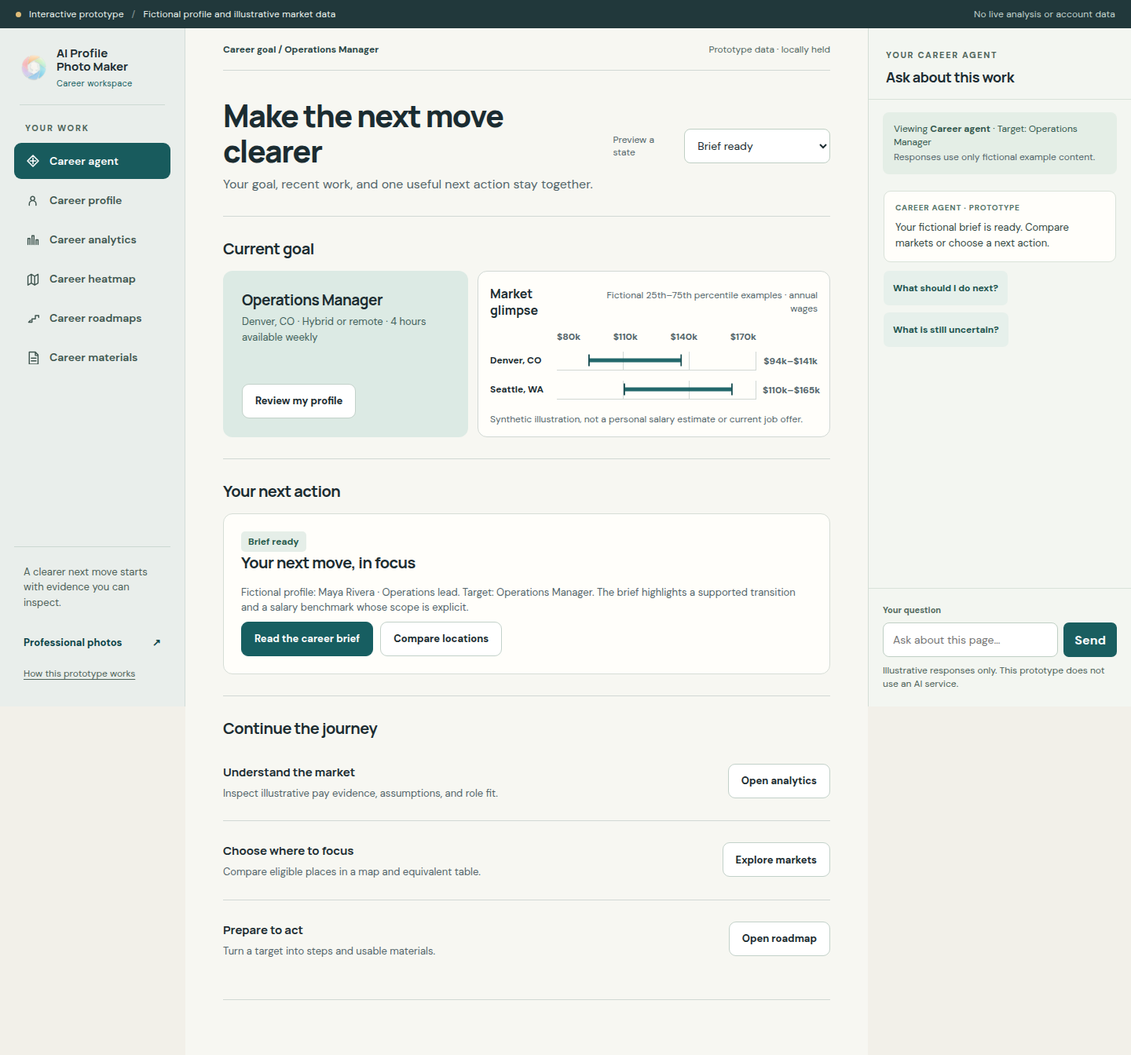
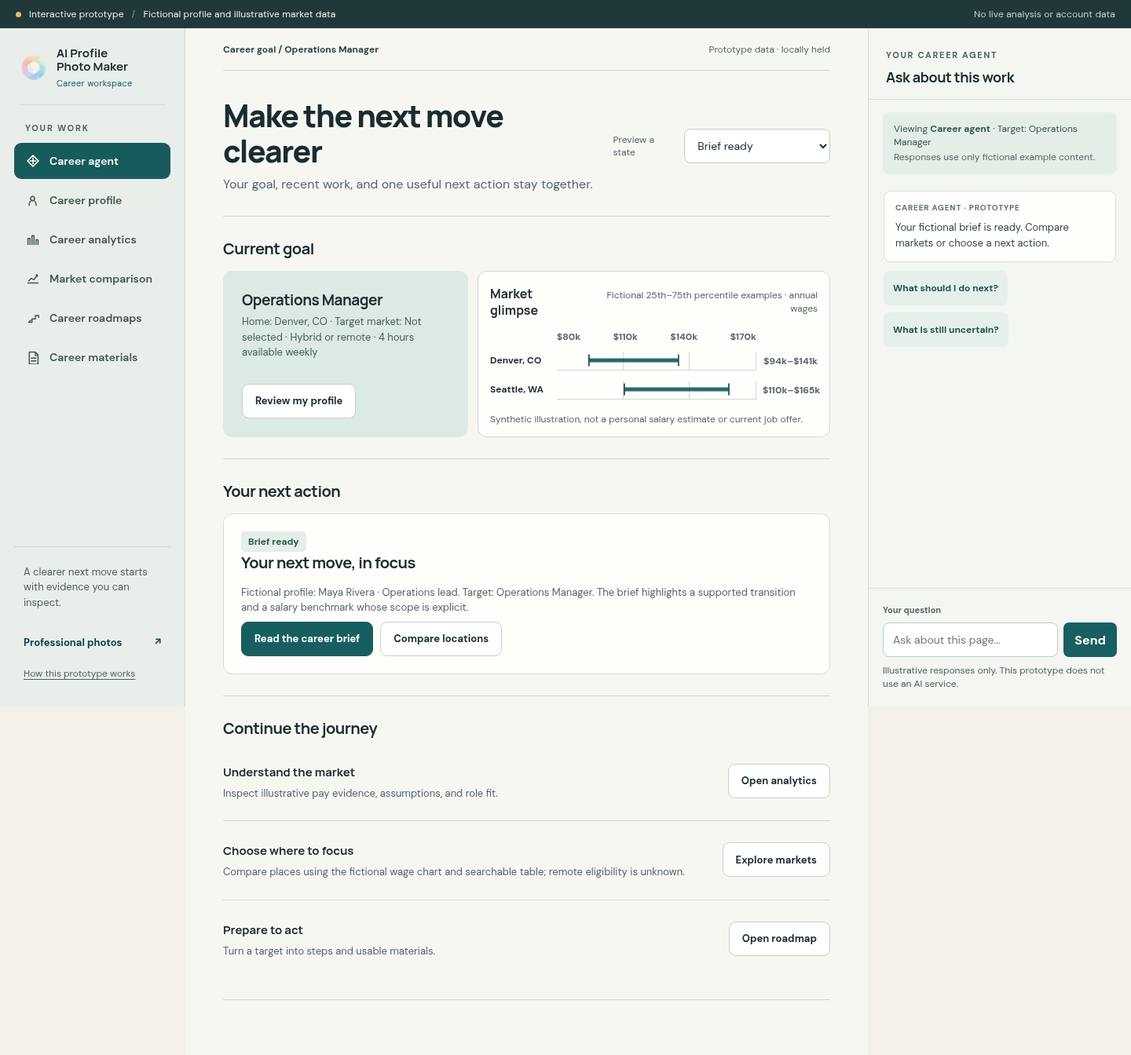
Fix prototype market comparison and target saving

diff --git a/prototypes/career-agent/app.js b/prototypes/career-agent/app.js
@@ -3,20 +3,21 @@ const pages = [
   ['agent','Career agent','M3 10.5 10.5 3 18 10.5 10.5 18 3 10.5Z M10.5 6.5v8 M6.5 10.5h8'],
   ['profile','Career profile','M5 18v-2a5 5 0 0 1 10 0v2 M10 11a3 3 0 1 0 0-6 3 3 0 0 0 0 6Z'],
   ['analytics','Career analytics','M3 18V9h3v9 M9 18V5h3v13 M15 18v-7h3v7'],
-  ['heatmap','Career heatmap','M3 7l5-3 5 3 5-3v13l-5 3-5-3-5 3V7Z M8 4v13 M13 7v13'],
+  ['heatmap','Market comparison','M3 17h15 M4 14l4-4 4 2 5-7 M15 5h2v2'],
   ['roadmaps','Career roadmaps','M4 17h5v-5h5V7h5 M16 7h3v3 M4 17l3-3'],
   ['materials','Career materials','M5 3h9l4 4v14H5z M14 3v5h4 M8 12h7 M8 16h7']
 ];
 const seeded = {
-  page:'agent', name:'Maya Rivera', title:'Operations lead', city:'Denver, CO',
+  page:'agent', name:'Maya Rivera', title:'Operations lead', city:'Denver, CO', targetMarket:'', marketToSave:'Denver, CO',
   role:'Operations Manager', arrangement:'Hybrid or remote', weeklyHours:'4 hours', canRelocate:false,
   confirmed:true, profileEdit:false, runState:'complete', selectedMarkets:['Denver, CO'],
   selectedRoute:'closest', completedTasks:[], materialTab:'resume', editedResume:false,
   resume:'Maya Rivera\nOperations Lead\n\nSUMMARY\nOperations leader with 9 years of experience improving cross-team workflows, service delivery, and reporting.\n\nEXPERIENCE\nLed process redesign across three departments. Reduced handoff time by documenting responsibilities and introducing shared reporting.\n\nSKILLS\nProcess improvement · Stakeholder coordination · Reporting',
   summary:'Operations leader focused on making complex work easier to run. Experienced in process improvement, team coordination, and clear reporting.',
-  showMap:false, marketQuery:'', messageHistory:[], assistantOpen:false
+  marketQuery:'', messageHistory:[], assistantOpen:false
 };
-const storeKey='career-prototype-v1';
+// v1 saved the chosen destination over the home city. Reset that ambiguous fictional state.
+const storeKey='career-prototype-v2';
 const routeScroll=Object.create(null);
 if('scrollRestoration' in history)history.scrollRestoration='manual';
 let state;
@@ -31,11 +32,11 @@ const head=(title,desc,tools='')=>`<header class="page-head"><div><h1>${title}</
 const section=(title,body,lead='')=>`<section class="section"><h2>${title}</h2>${lead?'<p class="section-lead">'+lead+'</p>':''}${body}</section>`;
 const statusText={empty:'No profile yet',working:'Research in progress',input:'Your answer is needed',partial:'Partial result saved',complete:'Brief ready',stale:'Needs refresh',error:'Source unavailable',quota:'Free limit reached'};
 const marketRows=[
-  {city:'Denver, CO',pay:'$94k–$141k',low:94,high:141,signal:'Illustrative wage benchmark',fit:'Current market',value:'mid'},
-  {city:'Seattle, WA',pay:'$110k–$165k',low:110,high:165,signal:'Illustrative wage benchmark',fit:'Relocation required',value:'high'},
-  {city:'Minneapolis, MN',pay:'$89k–$134k',low:89,high:134,signal:'Illustrative wage benchmark',fit:'Relocation required',value:'mid'},
-  {city:'Atlanta, GA',pay:'$82k–$123k',low:82,high:123,signal:'Illustrative wage benchmark',fit:'Relocation required',value:'low'},
-  {city:'Boise, ID',pay:'Unavailable',signal:'Suppressed in this example',fit:'Evidence unavailable',value:'unknown'}
+  {city:'Denver, CO',pay:'$94k–$141k',low:94,high:141},
+  {city:'Seattle, WA',pay:'$110k–$165k',low:110,high:165},
+  {city:'Minneapolis, MN',pay:'$89k–$134k',low:89,high:134},
+  {city:'Atlanta, GA',pay:'$82k–$123k',low:82,high:123},
+  {city:'Boise, ID',pay:'Unavailable'}
 ];
 function intervalPlot(rows,compact=false,showSelection=false){
   const interval=(m)=>m.low==null?'<span class="interval-unavailable">No example value</span>':`<span class="interval-band" style="--interval-start:${((m.low-80)/90*100).toFixed(1)}%;--interval-end:${((m.high-80)/90*100).toFixed(1)}%"></span>`;
@@ -68,7 +69,7 @@ function renderAssistant(){
     agent:'Your fictional brief is ready. Compare markets or choose a next action.',
     profile:'Your confirmed experience anchors the analysis. A proposed change needs your review.',
     analytics:'The occupational wage benchmark and comparable pay answer different questions. Check the definitions before comparing.',
-    heatmap:'The table contains the same illustrative locations as the map. Unknown data is separate from low values.',
+    heatmap:'Use Compare in the table to select places, then save a separate target market. The wage chart is fictional and remote eligibility is unknown.',
     roadmaps:'You can choose a path and change the weekly effort. Timelines are planning scenarios.',
     materials:'This resume draft uses confirmed example facts. Review every sentence before export.'
   };
@@ -80,17 +81,17 @@ function renderAgent(){
   let main='';
   if(run==='empty')main=`<div class="paper"><h2>Start with your background</h2><p>You can enter professional facts manually. A future release will accept a resume for review.</p><div class="button-row">${link('profile','Tell me about my background','primary')}${action('demo-confirm','Use the fictional example')}</div></div>`;
   else if(run==='working')main=`<div class="paper"><span class="status warn">Working · step 2 of 3</span><h2>Comparing your role with market evidence</h2><div class="step-track" aria-hidden="true"><span class="done"></span><span class="active"></span><span></span></div><p>The next step is a saved brief. This is a simulated progress state.</p>${action('cancel-run','Cancel example run')}</div>`;
-  else if(run==='input')main=`<div class="paper"><span class="status warn">Needs your answer</span><h2>Can you relocate for the right role?</h2><p>We will keep the analysis to eligible markets. Your answer is a simulated preference.</p><div class="button-row">${action('answer-no','No relocation','primary')}${action('answer-yes','Yes, I can relocate')}</div></div>`;
+  else if(run==='input')main=`<div class="paper"><span class="status warn">Needs your answer</span><h2>Can you relocate for the right role?</h2><p>Your answer changes the on-site relocation labels in the market comparison. It does not establish remote eligibility or run live research.</p><div class="button-row">${action('answer-no','No relocation','primary')}${action('answer-yes','Yes, I can relocate')}</div></div>`;
   else if(run==='quota')main=`<div class="paper"><span class="status warn">Free research limit reached</span><h2>Your saved work is still here</h2><p>A real release would show the measured allowance and exact reset time. You can review the fictional brief and export the sample materials now.</p>${link('materials','Open saved materials','primary')}</div>`;
   else if(run==='error')main=`<div class="paper"><span class="status error">Market source unavailable</span><h2>We could not refresh this evidence</h2><p>The saved example remains available. Try again when the source returns.</p><div class="button-row">${action('retry-run','Retry example task','primary')}${link('analytics','Read saved analysis')}</div></div>`;
-  else main=`<div class="paper"><span class="status ${run==='partial'||run==='stale'?'warn':''}">${statusText[run]}</span><h2>${run==='stale'?'Your profile changed since this brief':run==='partial'?'One source is missing; your brief is saved':'Your next move, in focus'}</h2><p>Fictional profile: ${clean(state.name)} · ${clean(state.title)}. Target: ${clean(state.role)}. The brief highlights a supported transition and a salary benchmark whose scope is explicit.</p><div class="button-row">${link('analytics','Read the career brief','primary')}${link('heatmap','Compare locations')}${run==='stale'?action('retry-run','Refresh example brief'):''}</div></div>`;
-  const goal=`<div class="goal-overview"><div class="scenario-banner"><div><h2>${clean(state.role)}</h2><p>${clean(state.city)} · ${clean(state.arrangement)} · ${clean(state.weeklyHours)} available weekly</p></div>${link('profile','Review my profile')}</div>${intervalPlot(marketRows.slice(0,2),true)}</div>`;
-  return head('Make the next move clearer','Your goal, recent work, and one useful next action stay together.',stateChoice)+section('Current goal',goal)+section('Your next action',main)+section('Continue the journey',`<div class="choice-list"><div class="artifact-row"><div><h3>Understand the market</h3><p>Inspect illustrative pay evidence, assumptions, and role fit.</p></div>${link('analytics','Open analytics')}</div><div class="artifact-row"><div><h3>Choose where to focus</h3><p>Compare eligible places in a map and equivalent table.</p></div>${link('heatmap','Explore markets')}</div><div class="artifact-row"><div><h3>Prepare to act</h3><p>Turn a target into steps and usable materials.</p></div>${link('roadmaps','Open roadmap')}</div></div>`);
+  else main=`<div class="paper"><span class="status ${run==='partial'||run==='stale'?'warn':''}">${statusText[run]}</span><h2>${run==='stale'?'Your goal changed since this brief':run==='partial'?'One source is missing; your brief is saved':'Your next move, in focus'}</h2><p>Fictional profile: ${clean(state.name)} · ${clean(state.title)}. Target: ${clean(state.role)}. The brief highlights a supported transition and a salary benchmark whose scope is explicit.</p><div class="button-row">${link('analytics','Read the career brief','primary')}${link('heatmap','Compare locations')}${run==='stale'?action('retry-run','Refresh example brief'):''}</div></div>`;
+  const goal=`<div class="goal-overview"><div class="scenario-banner"><div><h2>${clean(state.role)}</h2><p>Home: ${clean(state.city)} · Target market: ${clean(state.targetMarket||'Not selected')} · ${clean(state.arrangement)} · ${clean(state.weeklyHours)} available weekly</p></div>${link('profile','Review my profile')}</div>${intervalPlot(marketRows.slice(0,2),true)}</div>`;
+  return head('Make the next move clearer','Your goal, recent work, and one useful next action stay together.',stateChoice)+section('Current goal',goal)+section('Your next action',main)+section('Continue the journey',`<div class="choice-list"><div class="artifact-row"><div><h3>Understand the market</h3><p>Inspect illustrative pay evidence, assumptions, and role fit.</p></div>${link('analytics','Open analytics')}</div><div class="artifact-row"><div><h3>Choose where to focus</h3><p>Compare places using the fictional wage chart and searchable table; remote eligibility is unknown.</p></div>${link('heatmap','Explore markets')}</div><div class="artifact-row"><div><h3>Prepare to act</h3><p>Turn a target into steps and usable materials.</p></div>${link('roadmaps','Open roadmap')}</div></div>`);
 }
 function renderProfile(){
   const edit=state.profileEdit?`<div class="review-change"><span class="label">Proposed profile update</span><h3>Review before accepting</h3><dl><dt>Current</dt><dd>${clean(state.title)}</dd><dt>Proposed</dt><dd class="new">Senior Operations Lead</dd><dt>Source</dt><dd>Fictional resume excerpt · needs confirmation</dd></dl><div class="button-row">${action('accept-profile','Accept change','primary')}${action('dismiss-profile','Dismiss')}</div></div>`:`<div class="note">This fictional profile is confirmed. Try “Review a proposed edit” to see how uncertain resume facts would be handled.</div>`;
   return head('A profile you can trust','Professional facts are inspectable and correctable before they shape advice.',action('propose-profile','Review a proposed edit','primary'))+
-  section('Professional snapshot',`<div class="grid-2"><div class="paper"><span class="label">Confirmed background</span><h3 style="margin-top:12px">${clean(state.name)}</h3><p>${clean(state.title)} · 9 years in operations</p><p>Process improvement, coordination, and reporting.</p><span class="status">Added by you · confirmed</span></div><div class="paper"><span class="label">Current direction</span><h3 style="margin-top:12px">${clean(state.role)}</h3><p>Based in ${clean(state.city)}. Prefers ${clean(state.arrangement)} roles. ${clean(state.weeklyHours)} each week for the transition.</p><span class="status muted">Preferences · editable</span></div></div>`)+
+  section('Professional snapshot',`<div class="grid-2"><div class="paper"><span class="label">Confirmed background</span><h3 style="margin-top:12px">${clean(state.name)}</h3><p>${clean(state.title)} · 9 years in operations</p><p>Process improvement, coordination, and reporting.</p><span class="status">Added by you · confirmed</span></div><div class="paper"><span class="label">Current direction</span><h3 style="margin-top:12px">${clean(state.role)}</h3><p>Home market: ${clean(state.city)}. Target market: ${clean(state.targetMarket||'Not selected')}. Prefers ${clean(state.arrangement)} roles. ${clean(state.weeklyHours)} each week for the transition.</p><span class="status muted">Preferences · editable</span></div></div>`)+
   section('Evidence and corrections',edit)+
   section('Your goal',`<form id="goal-form"><div class="form-grid"><div><label class="field" for="goal-role">Target role</label><input id="goal-role" type="text" value="${clean(state.role)}" required maxlength="80"></div><div><label class="field" for="goal-city">Home market</label><input id="goal-city" type="text" value="${clean(state.city)}" required maxlength="80"></div><div><label class="field" for="goal-arrangement">Work arrangement</label><select id="goal-arrangement"><option ${state.arrangement==='Hybrid or remote'?'selected':''}>Hybrid or remote</option><option ${state.arrangement==='On-site'?'selected':''}>On-site</option><option ${state.arrangement==='Remote only'?'selected':''}>Remote only</option></select></div><div><label class="field" for="goal-hours">Time available each week</label><select id="goal-hours"><option ${state.weeklyHours==='4 hours'?'selected':''}>4 hours</option><option ${state.weeklyHours==='2 hours'?'selected':''}>2 hours</option><option ${state.weeklyHours==='8 hours'?'selected':''}>8 hours</option></select></div></div><div class="section-actions"><button class="button primary" type="submit">Save goal</button></div></form>`)+
   section('Resume intake',`<div class="paper"><h3>Bring your own experience</h3><p>The first product release will offer private document upload and a line-by-line confirmation step. This prototype demonstrates the review pattern using fictional facts. No file is sent or stored by this page.</p><span class="status muted">Prototype · upload inactive</span></div>`);
@@ -105,12 +106,17 @@ function renderAnalytics(){
  section('Next decision',`<div class="button-row">${link('heatmap','Compare markets','primary')}${link('roadmaps','Plan toward this role')}</div>`);
 }
 function renderHeatmap(){
- const options=marketRows.map(m=>`<tr><td data-label="Market"><strong>${m.city}</strong></td><td data-label="Example annual range">${m.pay}</td><td data-label="Constraint">${m.fit==='Relocation required'&&state.canRelocate?'Relocation possible':m.fit}</td><td data-label="Action"><button class="button ${state.selectedMarkets.includes(m.city)?'selected':''}" type="button" data-action="compare-market" data-market="${m.city}" aria-pressed="${state.selectedMarkets.includes(m.city)}">${state.selectedMarkets.includes(m.city)?'Selected':'Compare'}</button></td></tr>`).join('');
- const selected=state.selectedMarkets.join(' · ');
- return head('Find a market that fits your life','Compare places using the same measure, with location and remote restrictions visible.')+
- section('Explore locations',`<div class="note warn">All values and regions shown here are illustrative. The simplified map is a navigation sketch; the table contains the full comparison.</div><div class="map-controls"><div><label class="field" for="market-search">Search location</label><input id="market-search" type="search" placeholder="Try Seattle" value="${clean(state.marketQuery)}" autocomplete="off"></div><div><label class="field" for="market-metric">Measure</label><select id="market-metric"><option>Annual wage benchmark</option><option disabled>Observed postings · data needed</option><option disabled>Employment concentration · data needed</option></select></div><div><label class="field" for="market-work">Work arrangement</label><select id="market-work"><option>All arrangements</option><option>Hybrid or remote · eligibility unknown</option></select></div></div><button class="button mobile-map-toggle" type="button" data-action="toggle-map">${state.showMap?'Show list first':'Show map'}</button><div class="map-panel ${state.showMap?'':'collapsed'}" role="img" aria-label="Illustrative map sketch. Use the following table for all values."><svg viewBox="0 0 650 270" aria-hidden="true"><path data-value="high" d="M38 54l62 4 10 55-40 22-29-31z"/><path data-value="mid" d="M115 90l93-20 24 62-36 50-88-13z"/><path data-value="mid" d="M245 80l95-8 14 71-59 27-50-32z"/><path data-value="unknown" d="M355 50l80 22-8 100-70 7z"/><path data-value="low" d="M446 105l82 12 23 53-80 31-41-27z"/><path data-value="high" d="M538 49l79 11-9 113-52 14-23-62z"/><text x="47" y="89">WA</text><text x="146" y="121">CO</text><text x="271" y="118">MN</text><text x="371" y="111">ID</text><text x="478" y="150">GA</text><text x="560" y="106">NY</text></svg></div><div class="map-legend"><span><i class="legend-chip" style="background:#277b70"></i> Higher example</span><span><i class="legend-chip" style="background:#57998a"></i> Middle example</span><span><i class="legend-chip" style="background:#bdd0ba"></i> Lower example</span><span><i class="legend-chip" style="background:#c4cac3"></i> Unavailable</span></div>`)+
- section('Compare locations',`<p class="small">Selected: ${clean(selected)}. Choose up to three. Table values are fictional annual wage examples, not current job offers.</p>${intervalPlot(marketRows,false,true)}<div class="table-wrap"><table><thead><tr><th scope="col">Market</th><th scope="col">Example annual range</th><th scope="col">Constraint</th><th scope="col">Action</th></tr></thead><tbody id="market-table">${options}</tbody></table></div><div class="section-actions"><label class="field" for="target-market">Location to save in your goal</label><select id="target-market">${state.selectedMarkets.map(m=>`<option>${clean(m)}</option>`).join('')}</select><div class="button-row" style="margin-top:10px">${action('save-market','Save target market','primary')}</div></div>`)+
- section('Remote eligibility',`<div class="note">“Remote” on a listing does not mean eligible from every U.S. location. This prototype has no live listings, so remote eligibility remains unknown.</div>`);
+ const options=marketRows.map(m=>{
+  const constraint=m.city===state.city?'Home market':state.canRelocate?'Relocation possible for on-site work':'Relocation required for on-site work';
+  const selected=state.selectedMarkets.includes(m.city);
+  return `<tr><td data-label="Market"><strong>${clean(m.city)}</strong></td><td data-label="Example annual range">${clean(m.pay)}</td><td data-label="Constraint">${constraint}</td><td data-label="Action"><button class="button ${selected?'selected':''}" type="button" data-action="compare-market" data-market="${clean(m.city)}" aria-pressed="${selected}">${selected?'Selected':'Compare'}</button></td></tr>`;
+ }).join('');
+ const selected=state.selectedMarkets.length?state.selectedMarkets.join(' · '):'None yet';
+ const choices=state.selectedMarkets.map(m=>`<option ${m===state.marketToSave?'selected':''}>${clean(m)}</option>`).join('');
+ return head('Find a market that fits your life','Compare fictional annual wage examples; remote-job eligibility cannot be checked here.')+
+ section('Explore locations',`<div class="note warn">These are fictional annual wage examples, not job offers or live market data. Search filters the table and chart below. Remote eligibility cannot be filtered without actual listings.</div><label class="field" for="market-search">Search location</label><input id="market-search" type="search" placeholder="Try Seattle" value="${clean(state.marketQuery)}" autocomplete="off">`)+
+ section('Compare locations',`<div class="note" id="market-goal-summary"><strong>Home market: ${clean(state.city)} · Saved target market: ${clean(state.targetMarket||'Not selected')}</strong><p class="small">The target is a separate place to explore, not a change of where the fictional person lives. Saved in this browser session only. Changing it marks the earlier brief outdated; it does not run new analysis.</p></div><p class="small">Use Compare in the table to select up to three places. Selected: ${clean(selected)}. Values are fictional annual wage examples, not current job offers.</p><div class="table-wrap"><table><thead><tr><th scope="col">Market</th><th scope="col">Example annual range</th><th scope="col">Constraint</th><th scope="col">Action</th></tr></thead><tbody id="market-table">${options}</tbody></table></div><div class="section-actions"><p class="small">Choose one of your compared locations as a target; your home market will stay ${clean(state.city)}.</p><label class="field" for="target-market">Location to save as target</label><select id="target-market" ${state.selectedMarkets.length?'':'disabled'}>${choices}</select><div class="button-row" style="margin-top:10px"><button type="button" class="button primary" data-action="save-market" ${state.selectedMarkets.length?'':'disabled'}>Save target market</button></div></div>${intervalPlot(marketRows,false,true)}`)+
+ section('Remote eligibility',`<div class="note">“Remote” on a listing does not mean eligible from every U.S. location. This prototype has no live listings or state restrictions, so remote eligibility remains unknown. A relocation label refers only to on-site work relative to the home market.</div>`);
 }
 function applyMarketSearch(){
   const query=state.marketQuery.trim().toLowerCase();
@@ -167,12 +173,23 @@ document.addEventListener('click',event=>{
   if(a==='demo-confirm'){state.runState='complete';render();}
   if(a==='retry-run'){state.runState='working';render();notify('Example task started. Select “Brief ready” to preview completion.');}
   if(a==='cancel-run'){state.runState='partial';render();notify('Example task cancelled; saved work remains available.');}
-  if(a==='answer-no'||a==='answer-yes'){state.canRelocate=a==='answer-yes';state.runState='complete';render();notify('Example answer recorded; brief ready.');}
+  if(a==='answer-no'||a==='answer-yes'){state.canRelocate=a==='answer-yes';state.runState='complete';render();notify('Relocation preference recorded. No listing eligibility was checked.');}
   if(a==='choose-role'){state.role='Program Manager';state.runState='stale';render();notify('Target changed; earlier analysis needs a refresh.');}
   if(a==='explain-range'){openAssistant();sendPrompt('Explain this pay range');}
-  if(a==='compare-market'){const m=trigger.dataset.market;const ix=state.selectedMarkets.indexOf(m);if(ix>=0)state.selectedMarkets.splice(ix,1);else if(state.selectedMarkets.length<3)state.selectedMarkets.push(m);else return notify('You can compare up to three places. Remove one first.');render();notify('Comparison updated.');}
-  if(a==='save-market'){state.city=$('#target-market')?.value||state.city;state.runState='stale';render();notify('Goal location updated; earlier brief marked outdated.');}
-  if(a==='toggle-map'){state.showMap=!state.showMap;render();}
+  if(a==='compare-market'){
+    const m=trigger.dataset.market;const ix=state.selectedMarkets.indexOf(m);
+    if(ix>=0){state.selectedMarkets.splice(ix,1);if(state.marketToSave===m)state.marketToSave=state.selectedMarkets.at(-1)||'';}
+    else if(state.selectedMarkets.length<3){state.selectedMarkets.push(m);state.marketToSave=m;}
+    else return notify('You can compare up to three places. Remove one first.');
+    render();notify('Comparison updated.');
+  }
+  if(a==='save-market'){
+    const target=$('#target-market')?.value;
+    if(!target||!state.selectedMarkets.includes(target))return notify('Choose a location to compare before saving a target.');
+    if(target===state.targetMarket)return notify(`Target market already saved: ${target}. Home market remains ${state.city}.`);
+    state.targetMarket=target;state.marketToSave=target;state.runState='stale';render();
+    notify(`Saved target: ${target}. Home remains ${state.city}. Earlier brief needs refresh; no new analysis ran.`);
+  }
   if(a==='select-route'){state.selectedRoute=trigger.dataset.route;render();notify('Roadmap route selected.');}
   if(a==='adjust-effort'){state.weeklyHours=state.weeklyHours==='4 hours'?'2 hours':state.weeklyHours==='2 hours'?'8 hours':'4 hours';render();notify('Weekly effort assumption updated.');}
   if(a==='material-tab'){state.materialTab=trigger.dataset.tab;render();const next=document.querySelector(`[data-tab="${state.materialTab}"]`);next?.focus();}
@@ -185,6 +202,7 @@ document.addEventListener('click',event=>{
 });
 document.addEventListener('change',event=>{
  if(event.target.id==='demo-state'){state.runState=event.target.value;render();}
+ if(event.target.id==='target-market'){state.marketToSave=event.target.value;save();}
  if(event.target.matches('[data-task]')){const id=event.target.dataset.task;if(event.target.checked&&!state.completedTasks.includes(id))state.completedTasks.push(id);if(!event.target.checked)state.completedTasks=state.completedTasks.filter(x=>x!==id);event.target.closest('.task-row')?.classList.toggle('complete',event.target.checked);const progress=$('.plan-progress');if(progress)progress.textContent=`${state.completedTasks.length} of 4 steps completed in this example`;save();notify('Roadmap progress updated.');}
 });
 document.addEventListener('submit',event=>{

diff --git a/prototypes/career-agent/visuals.css b/prototypes/career-agent/visuals.css
@@ -73,6 +73,7 @@
   font-variant-numeric: tabular-nums;
 }
 
+.section-actions + .interval-chart { margin-top: 24px; }
 .goal-overview .interval-chart { margin: 0; }
 .interval-chart.compact { --chart-place: 85px; --chart-value: 78px; padding: 18px 15px 13px; }
 

diff --git a/prototypes/career-agent/README.md b/prototypes/career-agent/README.md
@@ -10,14 +10,14 @@ From the WSL worktree root:
 python3 -m http.server 4311 --bind 127.0.0.1
 ```
 
-Then open [the local preview](http://127.0.0.1:4311/prototypes/career-agent/). If another service owns 4311, choose a free port. Assets are served from the repository root because the existing brand logo is referenced. Data stays in browser sessionStorage. Use the browser's session storage clear action to restore the fictional starting point.
+Then open [the local preview](http://127.0.0.1:4311/prototypes/career-agent/). If another service owns 4311, choose a free port. Assets are served from the repository root because the existing brand logo is referenced. Data stays in browser sessionStorage. Use the browser's session storage clear action to restore the fictional starting point. The task-3 correction uses a new session key (`career-prototype-v2`): old fictional sessions reset because the previous save action overwrote the home market with a target market, and those meanings could not safely be migrated.
 
 ## Review journey
 
 1. Career agent: read current goal, inspect a useful next action, and preview empty, working, needs-input, partial, stale, source-error and quota states.
 2. Career profile: propose a resume-derived title change, inspect provenance, accept or dismiss, and edit role/location/time preferences.
 3. Career analytics: explain the fictional occupational wage interval and why a personalized pay interval is unavailable.
-4. Career heatmap: search and compare two locations, switch between list and schematic map on mobile, and save a selected destination.
+4. Market comparison (still at the `#heatmap` URL): search and compare Denver with Seattle using the table and fictional wage chart. Clicking Compare preselects that destination in the save control. Save it as a **target market**, verify that the **home market** remains unchanged, and read the remote-eligibility limitation. The misleading schematic map and inert work-arrangement filter were removed after the owner walkthrough.
 5. Career roadmaps: choose closest fit, higher ambition or steadier transition; adjust available time and complete a task.
 6. Career materials: review a fictional resume and summary, save an edit, download a plain-text example, and see the optional photo handoff.
 
@@ -51,13 +51,13 @@ Run the existing Playwright package against the prototype with:
 NODE_PATH=/home/alanw/projects/AI.ProfilePhotoMaker/AI.ProfilePhotoMaker.UI/node_modules node prototypes/career-agent/smoke.cjs
 ```
 
-The smoke script visits all six pages, tests the profile proposal, location selection, roadmap task, materials download and mobile assistant, captures desktop/mobile review images, checks mobile overflow and reports JavaScript page errors. It also checks the fictional interval graphics, chart/search/selection synchronization, navigation indicator position, roadmap milestone line, focus and scroll restoration on route history, visible keyboard focus and assistant focus return, 63 representative text/background contrast pairs across six pages (lowest measured ratio 4.6:1), reduced-motion styling, and reflow at a 640-CSS-pixel viewport with device scale factor 2 (a 1280-physical-pixel, 200%-scale equivalent). This is not a native browser-zoom, exhaustive contrast, or assistive-technology audit. It uses `CHROME_BIN` if the local Chrome binary differs.
+The smoke script visits all six pages, tests the profile proposal, location selection, separate home and target markets, save/reload persistence, disabled save with no selected places, relocation labels after home-market edits, roadmap task, materials download and mobile assistant, captures desktop/mobile review images, checks mobile overflow and reports JavaScript page errors. It also checks the fictional interval graphics, chart/search/selection synchronization, navigation indicator position, roadmap milestone line, focus and scroll restoration on route history, visible keyboard focus and assistant focus return, sampled text/background contrast pairs across six pages (minimum measured ratio reported by the run), reduced-motion styling, and reflow at a 640-CSS-pixel viewport with device scale factor 2 (a 1280-physical-pixel, 200%-scale equivalent). This is not a native browser-zoom, exhaustive contrast, or assistive-technology audit. It uses `CHROME_BIN` if the local Chrome binary differs.
 
 Current review captures are under `review/`. They were generated from the WSL browser pass; inspect them before treating any visual decision as complete. This prototype has not been merged into the production Angular routes.
 
 ## Known handoff boundaries
 
-- The simplified geography drawing is a layout sketch. Production heatmap requires validated U.S. state/metro boundaries and accessible table parity.
+- The prototype deliberately has no geography drawing or remote-work filter: a real map would require validated boundaries, evidence tied to geography, and accessible table parity. Remote eligibility needs actual job-listing restrictions; it cannot be inferred from the fictional wage benchmark.
 - Source and pay displays use fictional numbers. For the first career release, the owner selected a separately labeled BLS occupational benchmark and deferred personalized advertised-pay estimates. Real values require verified BLS ingestion, occupation/geography matching, suppression handling and source metadata; this prototype has none of those yet.
 - Browser session persistence demonstrates navigation recovery, not authenticated, durable account storage.
 - The prototype uses existing logo and a separate career design record. Product implementation must reconcile shared site shell and final branding rules.

diff --git a/prototypes/career-agent/review/finish-review.md b/prototypes/career-agent/review/finish-review.md
@@ -1,22 +1,22 @@
-# Finish review — updated 2026-09-26
+# Finish review — task-3 correction pending owner retest
 
 This is an inline Impeccable review because the available harness had no design-review subagent. It evaluates the code-led career workspace prototype, not a production deployment or a target-user test. The root photo-editor design system was left unchanged.
 
 ## Captures and checks
 
 - `desktop-agent.png` and `desktop-materials.png`: current goal and next action lead; the six-page navigation and contextual assistant remain visible; optional photos do not block text editing.
-- `mobile-heatmap.png` and `mobile-assistant.png`: the comparison table becomes labeled cards and the assistant opens below the mobile header. The initial table overflow and assistant/header overlap were corrected before these captures.
+- `mobile-heatmap.png` and `mobile-assistant.png`: the comparison table becomes labeled cards and the assistant opens below the mobile header. The schematic map and inert work filter were removed after owner feedback; the interval chart remains secondary to the table.
 - `desktop-analytics.png`, `desktop-heatmap.png`, `desktop-roadmaps.png`, and `mobile-analytics.png`: a shared interval axis ties fictional annual-wage examples to their definitions, the market chart mirrors searched/selected rows, and the roadmap line maps to the actual checklist. The chart does not convert occupational wages into an individual's value.
-- The browser smoke covers six page visits, profile correction, chart/search/selection synchronization, navigation-indicator position, roadmap progress, text download, mobile assistant, 320/390/720/1440px overflow checks, route focus and scroll restoration, visible keyboard focus, assistant focus return, 63 sampled text/background contrast pairs across six pages (minimum 4.6:1), reduced motion, a 640-CSS-pixel/2× reflow equivalent, skip link, and JavaScript errors. The headless and in-app browser zoom shortcuts did not change browser scale; native zoom, exhaustive contrast and assistive-technology audits remain unverified.
+- The browser smoke covers six page visits, profile correction, chart/search/selection synchronization, a saved target separate from home and preserved on reload, empty-selection save prevention, relocation labels after home edits, navigation-indicator position, roadmap progress, text download, mobile assistant, 320/390/720/1440px overflow checks, route focus and scroll restoration, visible keyboard focus, assistant focus return, sampled text/background contrast pairs across six pages, reduced motion, a 640-CSS-pixel/2× reflow equivalent, skip link, and JavaScript errors. The headless and in-app browser zoom shortcuts did not change browser scale; native zoom, exhaustive contrast and assistive-technology audits remain unverified.
 
 ## Reviewer disposition
 
-`disposition: ship` **as a testable prototype only**. The evidence hierarchy, type, flat material, current-page state, and mobile adaptation match the Career Research Desk contract. The captures do not demonstrate six separate full-page visual audits, browser compatibility, a real agent, or production data. The prototype banner and README make those limits explicit.
+`disposition: retest` **as a prototype only**. The owner walkthrough exposed a misleading map, a control with no effect, and a target save that overwrote the home market. The task-3 code and automated checks now address these, but the owner has not yet retested the revised flow. The captures do not demonstrate independent usability, browser compatibility, a real agent, or production data. The prototype banner and README make those limits explicit.
 
 The detector's earlier broad findings were largely scoped to the root portrait design rather than this separate career world. Concrete contrast, very small text, and cramped context-strip findings were fixed. No second detector pass was used. The existing logo is a pre-existing asset; no generated raster is claimed.
 
 ## Release gates not discharged
 
-1. Ticket #377: the owner will run the five-task walkthrough and report failures/hesitation. No session has occurred yet; owner testing is not independent target-user validation.
+1. Ticket #377: the owner has completed a walkthrough and reported task-3 failures. The revised flow needs owner retest, the remaining task outcomes need recording, and independent representative-user observation remains outstanding. Owner testing is not a substitute for it.
 2. Ticket #383: the owner selected a BLS occupational benchmark for the first release. No provider cleared U.S. multi-employer coverage plus ongoing commercial aggregation rights and pricing. Personalized pay remains deferred and ticket #384 remains gated. BLS ingestion and suppression QA are not implemented.
 3. Production integration: no authenticated state, market feed, model response, photo checkout, or existing Angular route was changed by this prototype.

diff --git a/prototypes/career-agent/DESIGN.md b/prototypes/career-agent/DESIGN.md
@@ -78,7 +78,7 @@ Manrope carries route headings and artifact names. DM Sans carries controls, den
 
 ## Layout
 
-Desktop uses a 236px contents rail, flexible artifact column and 335px contextual assistant. At widths under 980px the rail becomes a navigation menu and the assistant opens as a full-height sheet. At phone widths the map gives way to a first-class market list, the multi-column forms stack, and compare actions stay visible in each row.
+Desktop uses a 236px contents rail, flexible artifact column and 335px contextual assistant. At widths under 980px the rail becomes a navigation menu and the assistant opens as a full-height sheet. At phone widths the market table becomes a first-class card list, the multi-column forms stack, and compare actions stay visible in each row. The earlier schematic map was removed after the owner found it misleading; no map returns without validated geography and evidence.
 
 **The Artifact Leads Rule.** A specialist page gives its first viewport to the profile, analysis, geography, roadmap or material. The agent panel is persistent help; only the Career agent home leads with conversation and next action.
 
